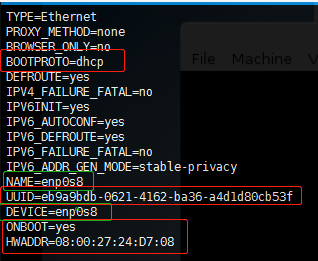
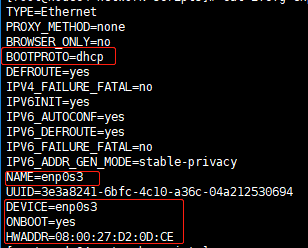
fix error of pic

diff --git a/VirtualBox.md b/VirtualBox.md
@@ -47,7 +47,7 @@ host-only(虚拟机和主机互相通信，使用 192.168.56.x 网段)
 <div align="center"><img src="./images/4.jpg" /></div>
 
 (1) 配置 host-only 网卡<br>
-编辑 ifcfg-enp0s3 文件  `vim ifcfg-enp0s3` ，配置如下
+编辑 ifcfg-enp0s8 文件  `vim ifcfg-enp0s8` ，配置如下
 
 ```
 TYPE=Ethernet
@@ -61,9 +61,9 @@ IPV6_AUTOCONF=yes
 IPV6_DEFROUTE=yes
 IPV6_FAILURE_FATAL=no
 IPV6_ADDR_GEN_MODE=stable-privacy
-NAME=enp0s3
+NAME=enp0s8
 UUID=eb9a9bdb-0621-4162-ba36-a4d1d80cb53c
-DEVICE=enp0s3
+DEVICE=enp0s8
 ONBOOT=yes
 IPADDR=192.168.56.101
 PREFIX=24
@@ -73,14 +73,14 @@ GATEWAY=192.168.56.1
 DNS1=202.116.32.254
 DNS1=202.116.32.134
 ```
-<div align="center"><img src="./images/5_1.jpg" /></div>
+<div align="center"><img src="./images/5_1.png" /></div>
 
 >**HWADDR**与仅主机网络设置中的一致
 
 保存，退出，重启网络 `service network restart` 此时宿主机和虚拟机可以相互ping通
 
 (2) 配置 Nat Network 网卡<br>
-编辑 ifcfg-enp0s8 文件  `vim ifcfg-enp0s8` ，配置如下
+编辑 ifcfg-enp0s3 文件  `vim ifcfg-enp0s3` ，配置如下
 
 ```
 TYPE=Ethernet
@@ -94,9 +94,9 @@ IPV6_AUTOCONF=yes
 IPV6_DEFROUTE=yes
 IPV6_FAILURE_FATAL=no
 IPV6_ADDR_GEN_MODE=stable-privacy
-NAME=enp0s8
+NAME=enp0s3
 UUID=eb9a9bdb-0621-4162-ba36-a4d1d80cb53f
-DEVICE=enp0s8
+DEVICE=enp0s3
 ONBOOT=yes
 HWADDR=08:00:27:24:D7:08
 ```
